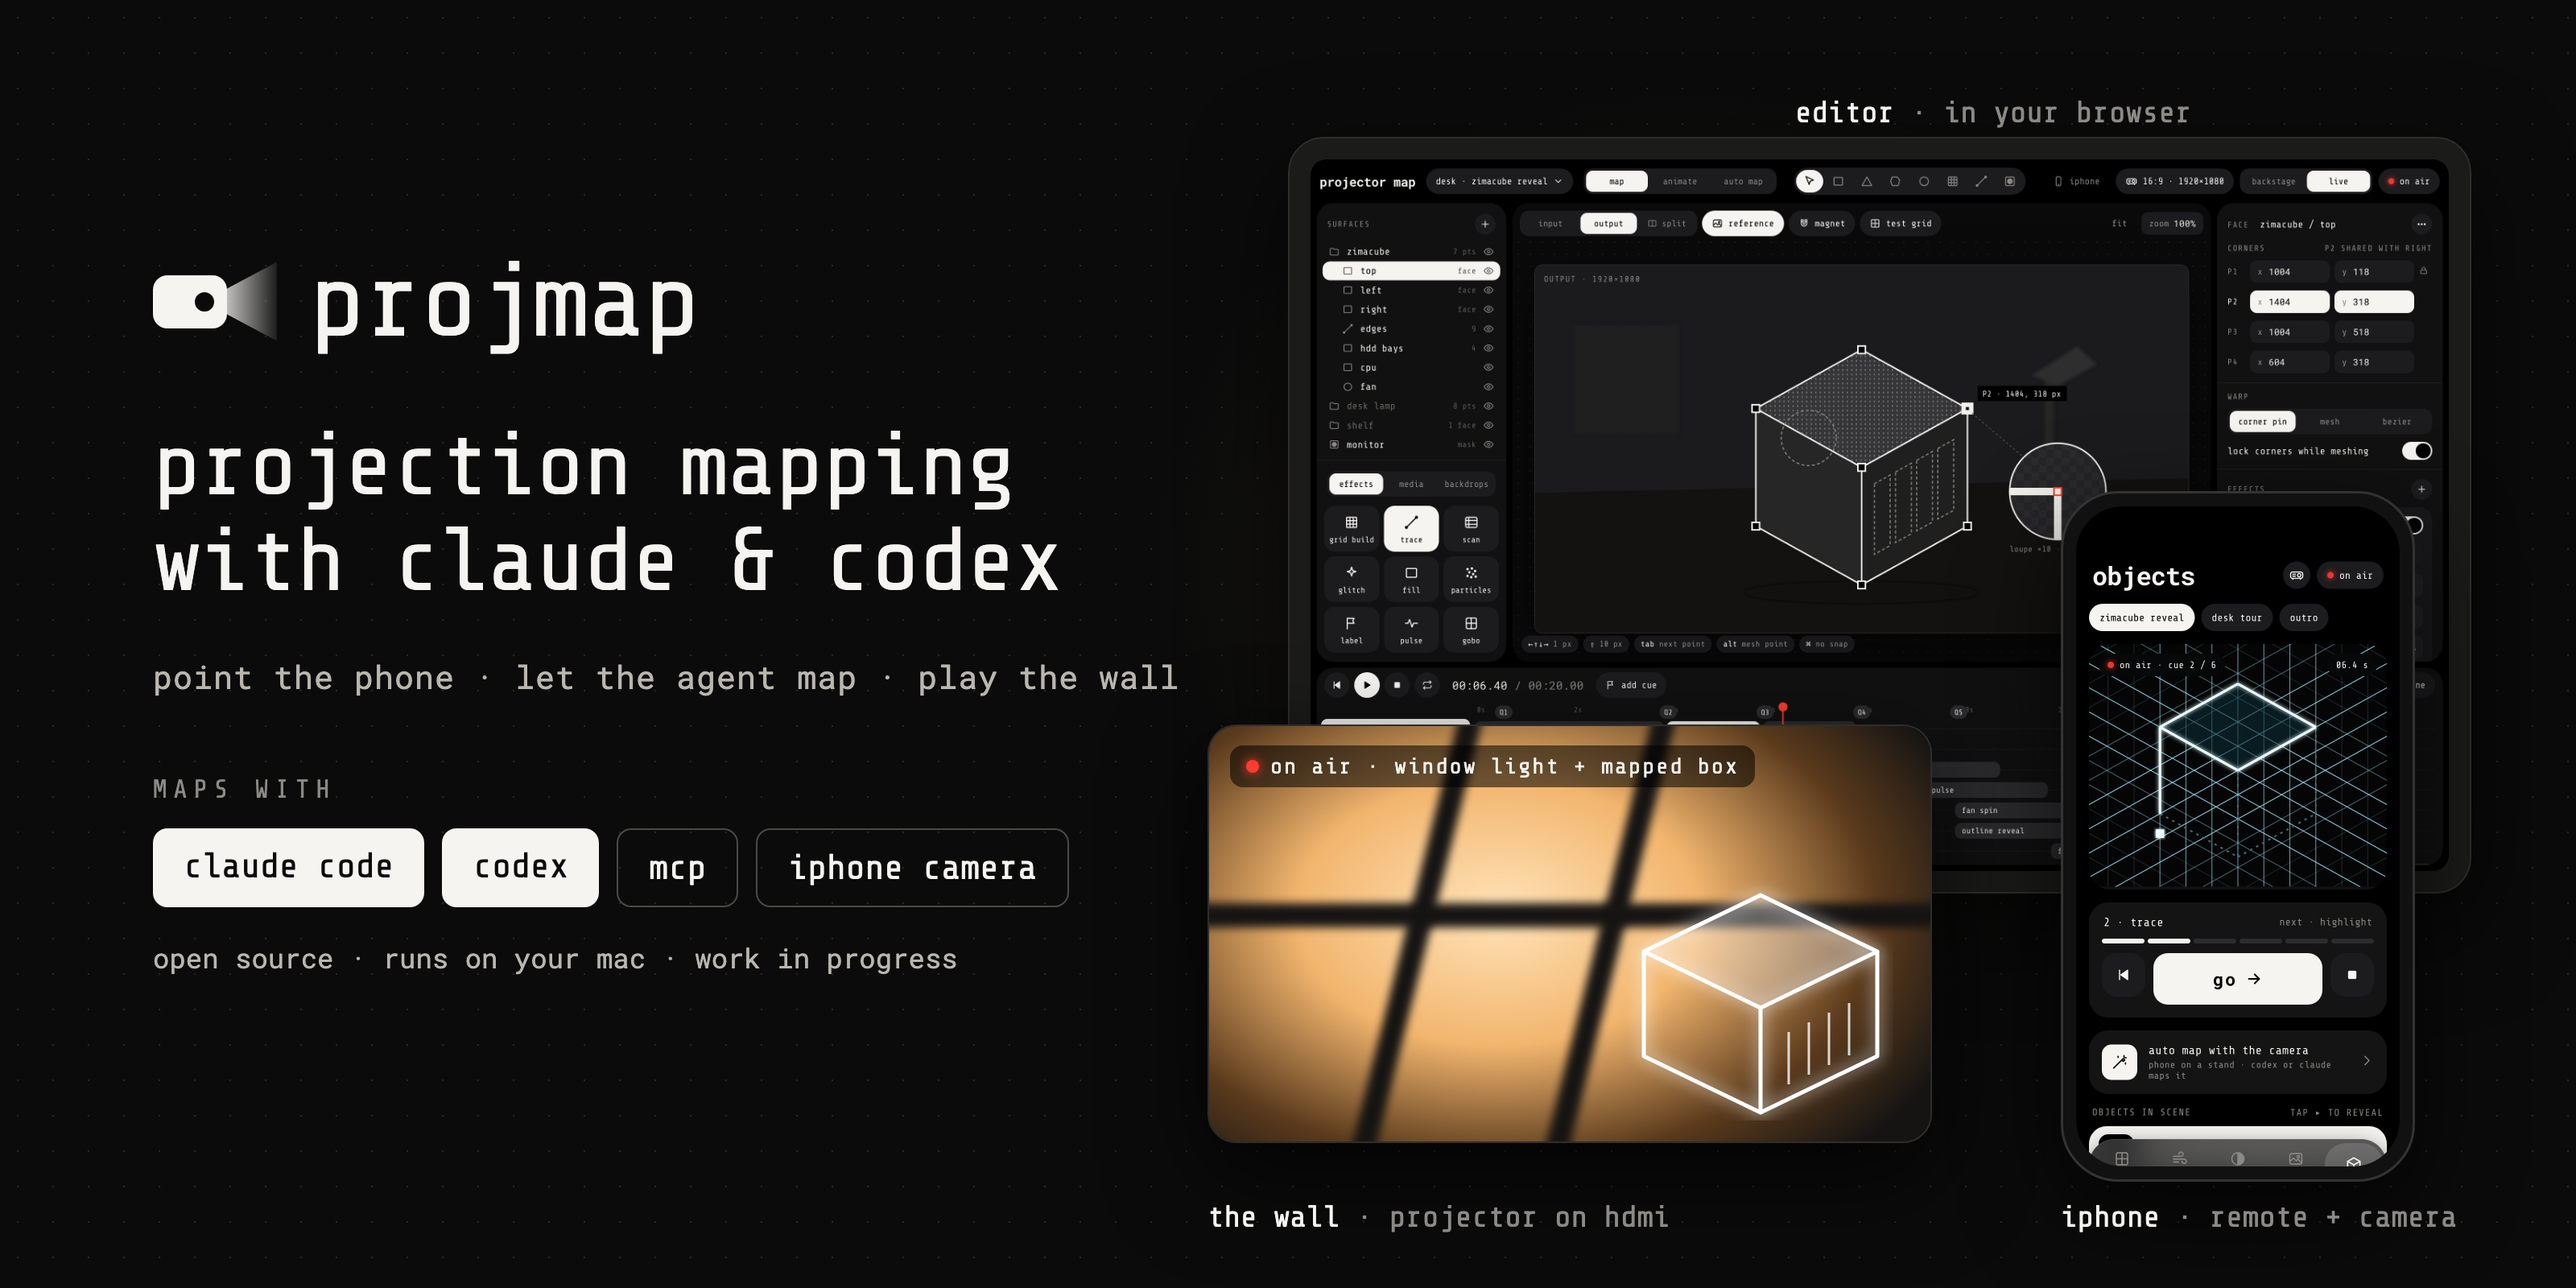
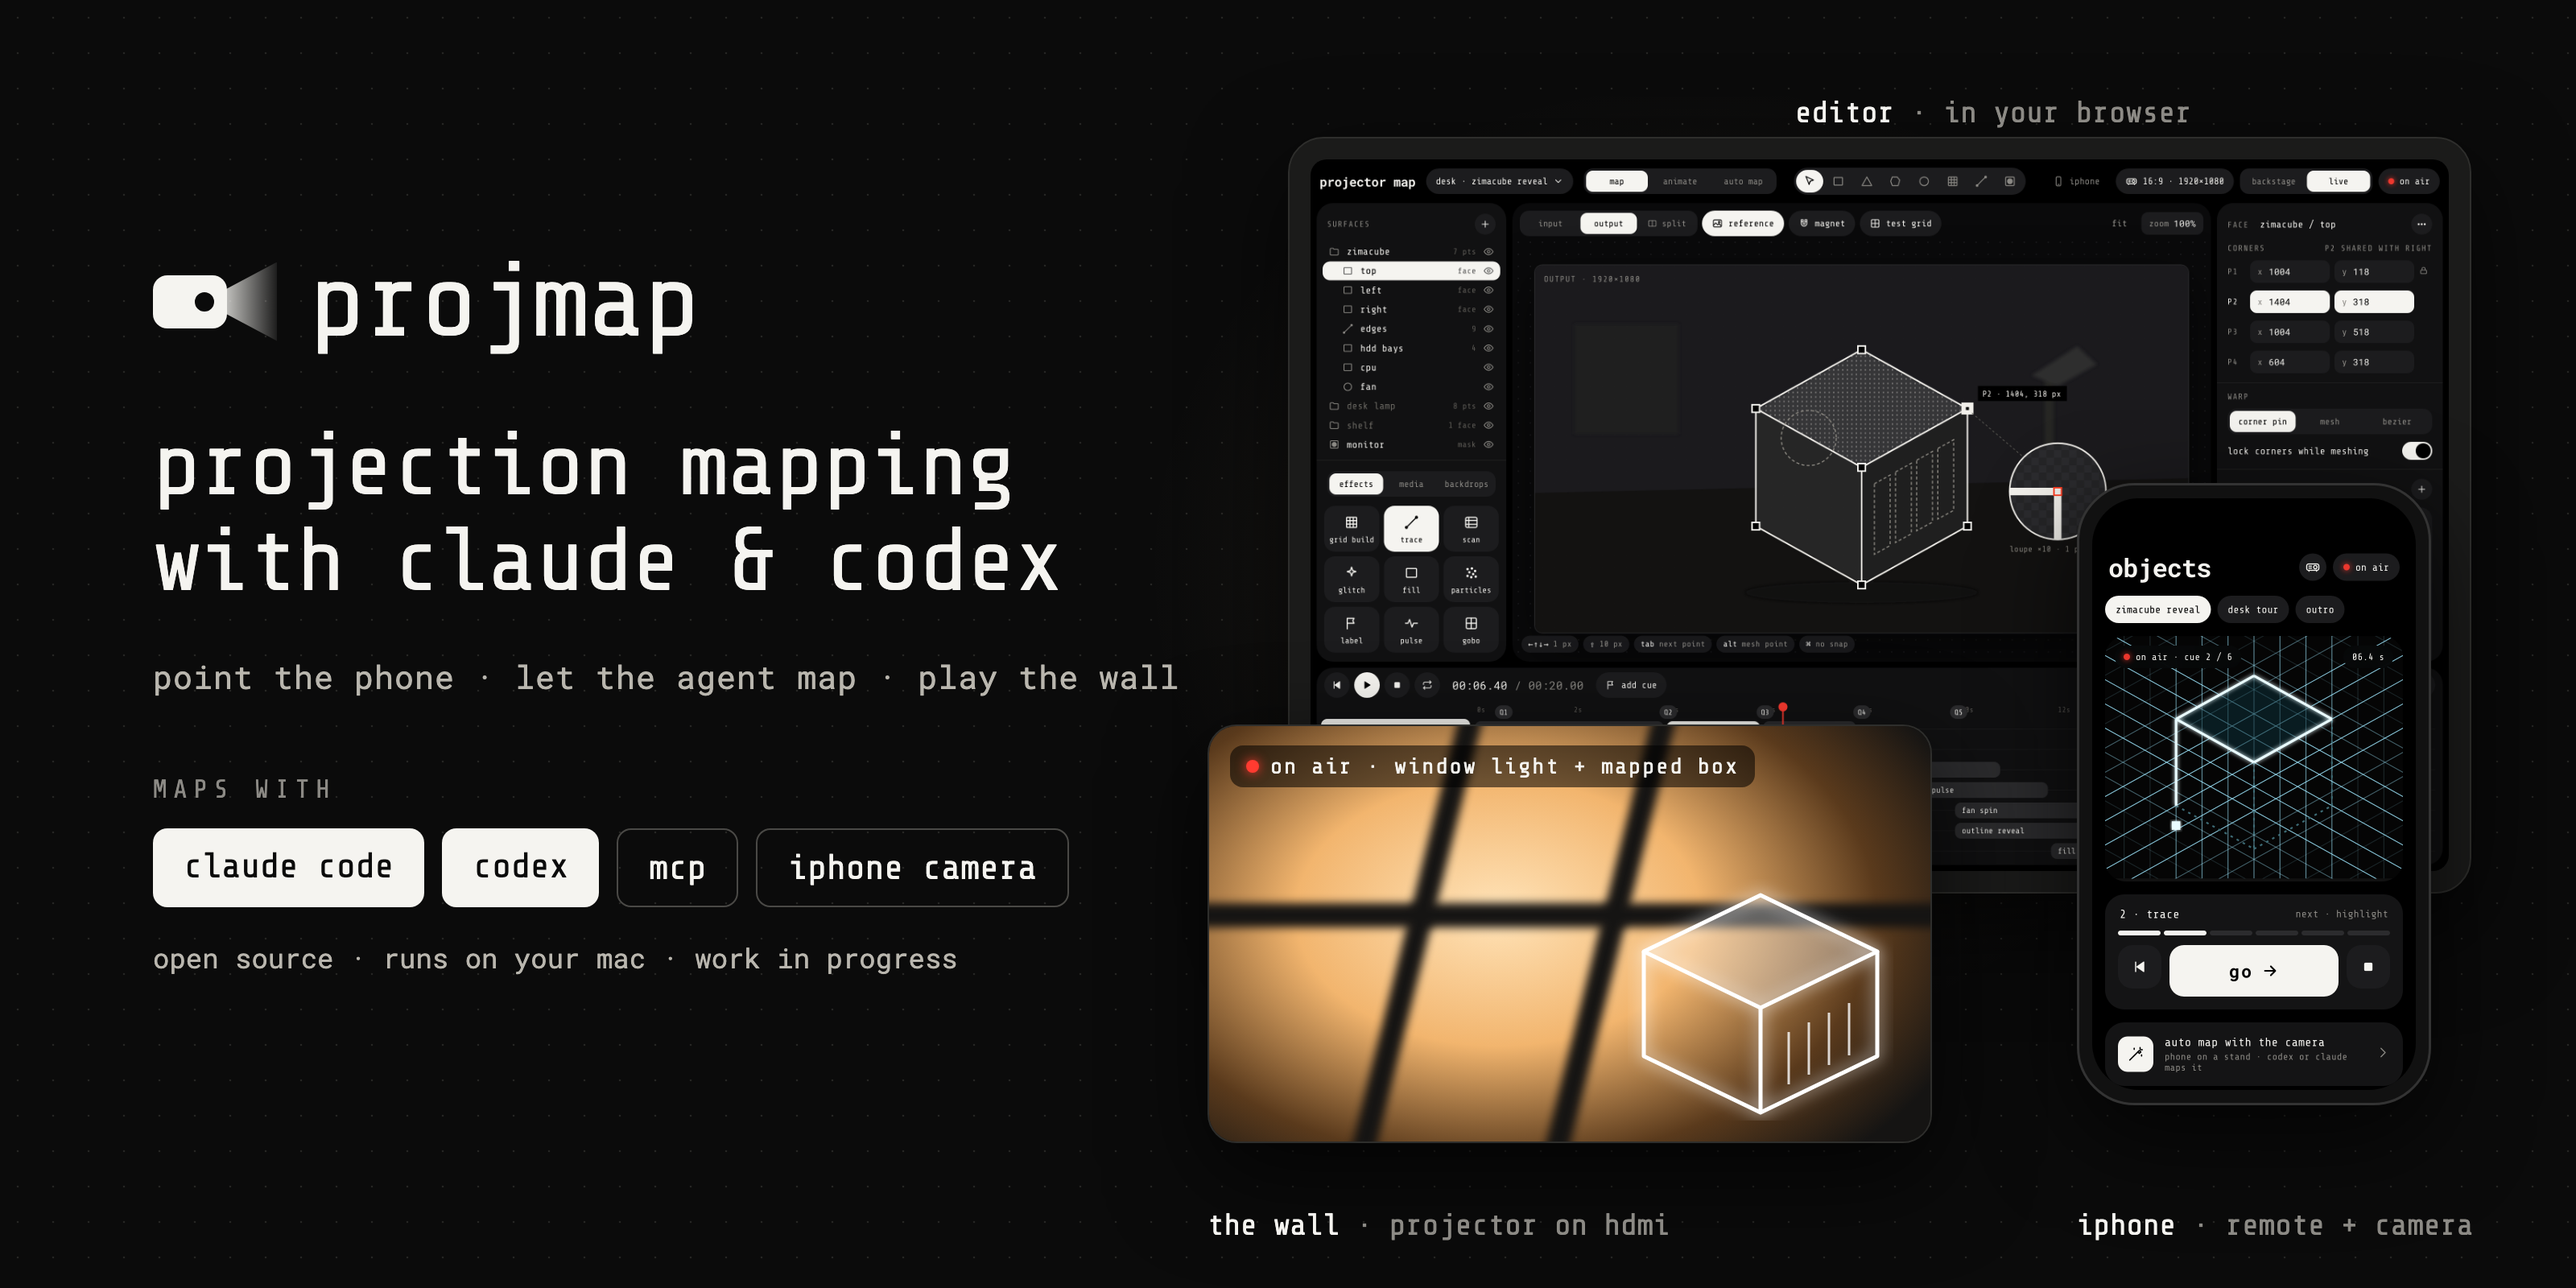
Hero: show the whole phone screen; README: phone screens in equal, top-aligned cells
Claude-Session: https://claude.ai/code/session_015XPBHpwyXHquhqJA1YVvJd

Changed region(s): [[0.8125, 0.375, 0.9375, 0.9062], [0.4688, 0.9375, 0.6562, 0.9688], [0.8125, 0.9375, 0.9688, 0.9688]]

diff --git a/design/hero/hero.html b/design/hero/hero.html
@@ -20,8 +20,8 @@ h1{font-weight:400;font-size:112px;line-height:1.06;margin-top:70px;letter-spaci
 .note{font-family:RM;font-size:34px;color:#B9B6AE;margin-top:40px}
 .laptop{position:absolute;left:1600px;top:170px;width:1470px;padding:26px;border-radius:44px;background:#1b1b1a;border:2px solid #2e2e2c;box-shadow:0 40px 120px rgba(0,0,0,.6)}
 .laptop img{width:100%;display:block;border-radius:20px}
-.phone{position:absolute;left:2560px;top:610px;width:440px;padding:16px;border-radius:72px;background:#111;border:3px solid #333;box-shadow:0 40px 120px rgba(0,0,0,.7)}
-.phone .scr{border-radius:58px;overflow:hidden;height:820px}
+.phone{position:absolute;left:2580px;top:600px;width:440px;padding:16px;border-radius:72px;background:#111;border:3px solid #333;box-shadow:0 40px 120px rgba(0,0,0,.7)}
+.phone .scr{border-radius:58px;overflow:hidden;aspect-ratio:804/1470}
 .phone img{width:100%;display:block}
 .wall{position:absolute;left:1500px;top:900px;width:900px;height:520px;border-radius:36px;overflow:hidden;background:#151413;border:2px solid #2e2e2c;box-shadow:0 40px 120px rgba(0,0,0,.7)}
 .wall .light{position:absolute;inset:0;background:radial-gradient(ellipse 70% 80% at 40% 45%,#ffe3b8 0,#f2b56e 40%,#5a3a1c 75%,#151413 100%)}
@@ -49,8 +49,8 @@ h1{font-weight:400;font-size:112px;line-height:1.06;margin-top:70px;letter-spaci
  <svg class="box" width="330" height="300" viewBox="0 0 330 300"><g fill="none" stroke="#fff" stroke-width="5" stroke-linejoin="round" style="filter:drop-shadow(0 0 10px #fff)"><path d="M165 20 L310 90 L165 160 L20 90 Z" fill="rgba(255,255,255,.18)"/><path d="M20 90 L20 220 L165 290 L310 220 L310 90 M165 160 L165 290"/></g><g stroke="#fff" stroke-width="3" opacity=".8"><path d="M200 190 L200 255 M225 178 L225 243 M250 166 L250 231 M275 154 L275 219"/></g></svg>
  <div class="tag"><span class="dot"></span>on air · window light + mapped box</div>
 </div>
-<div class="phone"><div class="scr"><img src="../boards/phone-objects.png"></div></div>
-<div class="lbl" style="left:1500px;top:1490px">the wall <span>· projector on hdmi</span></div>
-<div class="lbl" style="left:2560px;top:1490px">iphone <span>· remote + camera</span></div>
+<div class="phone"><div class="scr"><img src="phone-objects-top.png"></div></div>
+<div class="lbl" style="left:1500px;top:1500px">the wall <span>· projector on hdmi</span></div>
+<div class="lbl" style="left:2580px;top:1500px">iphone <span>· remote + camera</span></div>
 <div class="lbl" style="left:2230px;top:118px">editor <span>· in your browser</span></div>
 </body></html>

diff --git a/README.md b/README.md
@@ -115,11 +115,11 @@ also the camera the server and the agents use to see the room.
 
 <table>
 <tr>
-<td align="center"><img src="docs/images/screens/phone-static.png" width="180" alt="static light with plates"><br><b>static</b><br>light and plates</td>
-<td align="center"><img src="docs/images/screens/phone-live.png" width="180" alt="live layers"><br><b>live</b><br>moving layers</td>
-<td align="center"><img src="docs/images/screens/phone-color.png" width="180" alt="colour"><br><b>color</b><br>gradients, animated colour</td>
-<td align="center"><img src="docs/images/screens/phone-scenery.png" width="180" alt="scenery"><br><b>scenery</b><br>blurred photos, video</td>
-<td align="center"><img src="docs/images/screens/phone-objects.png" width="180" alt="objects"><br><b>objects</b><br>mapped scenes, GO</td>
+<td align="center" valign="top" width="20%"><img src="docs/images/screens/phone-static.png" width="160" height="348" alt="the static tab"><br><b>static</b><br><sub>light, plates</sub></td>
+<td align="center" valign="top" width="20%"><img src="docs/images/screens/phone-live.png" width="160" height="348" alt="the live tab"><br><b>live</b><br><sub>moving layers</sub></td>
+<td align="center" valign="top" width="20%"><img src="docs/images/screens/phone-color.png" width="160" height="348" alt="the color tab"><br><b>color</b><br><sub>gradients</sub></td>
+<td align="center" valign="top" width="20%"><img src="docs/images/screens/phone-scenery.png" width="160" height="348" alt="the scenery tab"><br><b>scenery</b><br><sub>photos, video</sub></td>
+<td align="center" valign="top" width="20%"><img src="docs/images/screens/phone-objects.png" width="160" height="348" alt="the objects tab"><br><b>objects</b><br><sub>mapping, GO</sub></td>
 </tr>
 </table>
 
